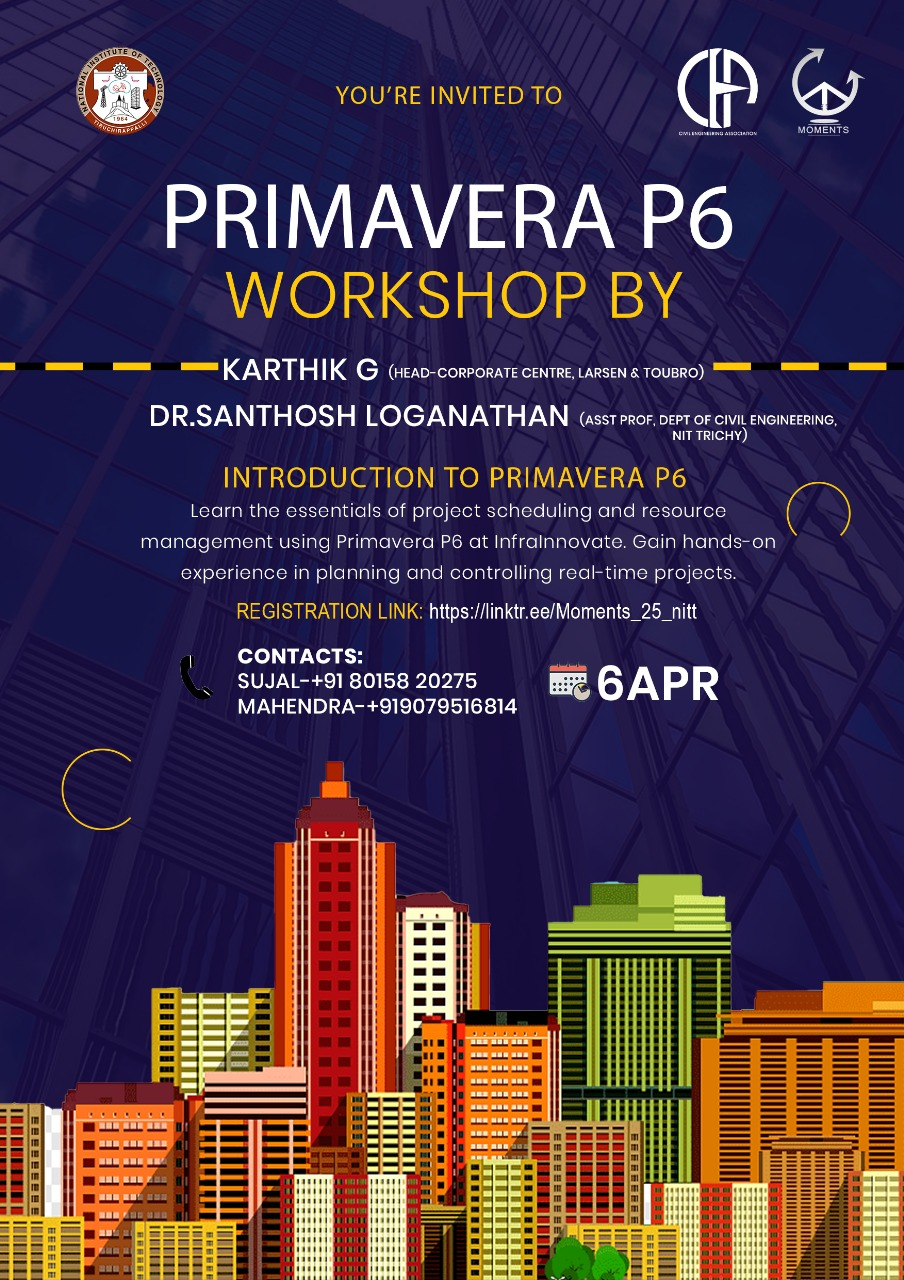
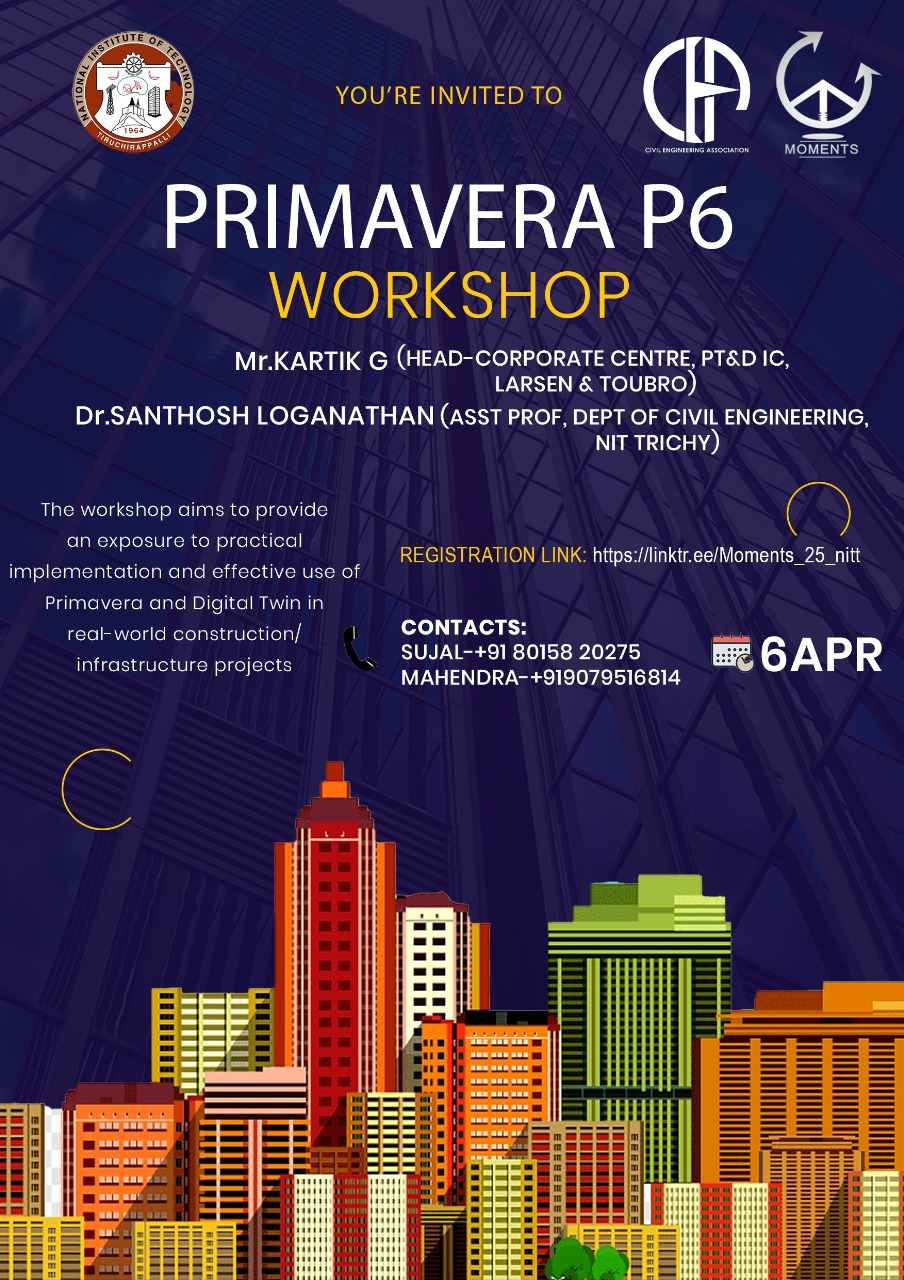
fix: Workshop informations

diff --git a/frontend/src/pages/workshop.jsx b/frontend/src/pages/workshop.jsx
@@ -131,7 +131,7 @@ Description or rulebook thing for workshops
 
 
         <WorkshopCard
-          title="Introduction To Primavera P6 By Kaarthik G & Dr. Santhosh Loganathan"
+          title="Introduction To Primavera P6 By Mr. Karthik G & Dr. Santhosh Loganathan"
           description="Learn the essentials of project scheduling and resource management using Primavera P6 at Infrainnovate. Gain hands-on experience in planning and controlling real-time projects."
           tag="6th April"
           rules={workshop2}
